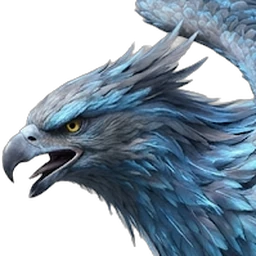
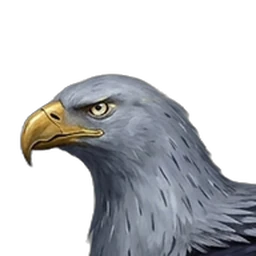
Storm Eagle: redesigned picture, roar picture, animated from its own videos with its own voice
Tall indigo-black eagle with a rain-streaked storm-grey head, silver wing bands and a neck ruff,
standing with its wings folded (Nano Banana 2.1; a gold streak behind its eye painted out).
Both videos clean.

Claude-Session: https://claude.ai/code/session_018PQaDJLhfzPHgGb82XHzjM

diff --git a/tests/test_web_explore.py b/tests/test_web_explore.py
@@ -1333,6 +1333,20 @@ def test_the_bone_vulture_is_animated_from_its_own_videos_with_its_own_voice():
     assert json.load(open(os.path.join("art", "beasts", "heads.json")))["bone_vulture@roar"][:2] == [0.08, 0.38]
     assert explore_play.beast_body("Bone Vulture") == "bone_vulture"
 
+def test_the_storm_eagle_is_animated_from_its_own_videos_with_its_own_voice():
+    """SHOAIB's redesigned Storm Eagle (Nov 27, Grandmaster Elite): a tall indigo-black eagle with a storm-grey head, standing with its wings folded; both videos clean."""
+    import json
+    from web import beast_sheets, death, explore_play
+    d = beast_sheets.sheets("storm_eagle")
+    assert d and set(d["sheets"]) == {"idle", "attack", "hit", "death"} and d["sheets"]["idle"]["smooth"]
+    assert death.view({"kind": "beast", "name": "Storm Eagle", "slug": "storm_eagle"})["kind"] == "sheet"
+    assert os.path.exists(os.path.join("art", "beasts", "roar", "storm_eagle.png"))
+    keys = json.load(open(os.path.join("art", "fx", "sounds", "sounds.json")))
+    for sound in ("hit", "lunge", "death", "roar", "roar:big"):
+        assert f"{sound}@storm_eagle" in keys
+    assert json.load(open(os.path.join("art", "beasts", "heads.json")))["storm_eagle@roar"][:2] == [0.07, 0.19]
+    assert explore_play.beast_body("Storm Eagle") == "storm_eagle"
+
 def test_a_move_ending_in_another_pose_slides_and_dissolves_back_into_the_idle():
     """`make_beast_sheets.settle`: the last frames slide until the nose meets the idle's, then dissolve into it."""
     from PIL import Image

diff --git a/scripts/make_beast_sheets.py b/scripts/make_beast_sheets.py
@@ -142,6 +142,12 @@ CLIPS = {
                              "attack_ms": 3000,
                              "ease_in": {"attack": 2, "hit": 3, "death": 4}, "settle": {"attack": 3},
                              "ease_out": {"hit": 3}, "place_as": {"attack": "idle", "hit": "idle", "death": "idle"}},
+    # Nov 27 redesign, standing with its wings folded: both videos clean (no remakes): its idle before its beak stab,
+    # its flinch and its fall onto its belly from the hit video, easing in from the idle
+    "storm_eagle": {"attack": (3.95, 6.9), "hit": (2.1, 3.2), "death": (4.95, 7.25), "idle_span": (16, 28),
+                    "breathe": 0.035, "idle_from": 2.8, "idle_until": 4.0, "attack_ms": 2600,
+                    "ease_in": {"attack": 2, "hit": 3, "death": 4}, "settle": {"attack": 3},
+                    "ease_out": {"hit": 3}, "place_as": {"attack": "idle", "hit": "idle", "death": "idle"}},
     # Nov 27 redesign, standing hunched with its wings folded: both videos clean (no remakes); its pale head is its own,
     # so nothing is wiped. Its idle before its neck-stretching stab, its flinch (taken on until it stands calm again)
     # and its slump (from the calm moment its neck matches the idle's) from the hit video

diff --git a/scripts/make_roar_fx.py b/scripts/make_roar_fx.py
@@ -84,7 +84,7 @@ MOUTHS = {
     "spear_beak_crane": (0.1, 0.12),
     "steel_horn_bull": (0.1, 0.5),
     "stone_shell_tortoise": (0.02, 0.47),
-    "storm_eagle": (0.04, 0.37),
+    "storm_eagle": (0.03, 0.13),
     "stray_dog_pack": (0.05, 0.36),
     "taotie_the_devourer": (0.3, 0.2),
     "the_master": (0.45, 0.2),
@@ -155,7 +155,7 @@ ROAR_MOUTHS = {
     "spear_beak_crane": (0.1, 0.41),
     "steel_horn_bull": (0.12, 0.5),
     "stone_shell_tortoise": (0.06, 0.47),
-    "storm_eagle": (0.08, 0.33),
+    "storm_eagle": (0.07, 0.19),
     "stray_dog_pack": (0.06, 0.36),
     "thornback_lizard": (0.05, 0.4),
     "thousand_year_centipede": (0.09, 0.3),

diff --git a/art/beasts/README.md b/art/beasts/README.md
@@ -60,5 +60,5 @@ dark-green scorpion with its tail curled over its back; its videos kept the pict
 sparkle, so both are dropped, and its strike is taken without the green slash arc the video drew. The **Poison Toad** (Martial Expert) is a huge warty
 olive toad with bright toxic-green spots, its jolt's white impact lines wiped from its video. The **Silver Monkey** (Martial Expert) is an agile
 silver-furred monkey with a short curled tail; its attack video was remade (the first leapt off and turned round), and
-the tail Veo grew long in its hit and death video is cut back to a short stub. The **Steel-Horn Bull** (Elite) is a huge dark-brown bull with thick steel horns and an iron nose ring, drawn facing left (no longer mirrored; Nano Banana 2.1); both its videos were clean. The **Golden-Eyed Ape King**, the Martial Expert Beast King, is a colossal charcoal-and-rust great ape with a gold zigzag streak down its back and no tail; its picture was mirrored to face left before its videos (Nano Banana 2.1), and the few frames with dust at its fist slam are dropped. The **Ironbark Bear** (Martial Master) is a tawny bear armoured in red-brown ironwood bark with moss and jade-green stones, drawn facing left (no longer mirrored; Nano Banana 2.1); its swipe video was made from the uncleaned picture, so the sparkle Veo kept on its rump is cut away. The **Frost Wolf** (Martial Master) is a stocky pale silver-blue tundra wolf with a huge icy-tipped mane, a blue diamond on its brow and a short tucked tail (Nano Banana 2.1); it is pale, so its video effects are left out by choosing frames, never wiped: its bite stops just before the ice shards the video drew. The **Thunder Hawk** (Elite) is a bulky slate blue-grey hawk with a gold-tipped crest and gold zigzag stripes on its wings; it now stands and fights on its feet with its wings folded (no longer diving; no stone underfoot; Nano Banana 2.1). Its first attack and hit spread its wings off the video, so they come from one remade video; its fall from the first. The **Ember Lizard** (Martial Master) is a lean, long-legged runner, glossy black with coal-orange bands and a flame-orange neck frill (Nano Banana 2.1; the small flame wisp Gemini drew over its head painted out). Veo grew its short tail long in every video, so each move is taken before the tail grows. The **Frost Python** (Elite) is a navy-blue python with ice-white diamonds and a frosted spine ridge, coiled low (Nano Banana 2.1; Gemini's sparkle painted onto its coil was un-blended before its videos); both its videos were clean. The **Wind Leopard** (Elite) is a slim, long-legged sand-gold leopard with swirl-shaped spots and black-tufted ears, drawn facing left (no longer mirrored; Nano Banana 2.1); Veo grew its short tail long whenever it moved, so the tail is cut back where it reaches past its back feet. The **Flame-Maned Lion**, the Martial Master Beast King, is a golden lion with a huge crimson-to-gold mane (just colour, not fire) and no tail showing, drawn facing left (no longer mirrored; Nano Banana 2.1; its long thin tail and the "AI" badge painted out of its picture); the tufted tail Veo grew is cut back in every move. The **Stone-Shell Tortoise** (Grandmaster) is an ox-sized tortoise with a slate stone shell, ochre seams, moss and three stone knobs (Nano Banana 2.1); both its videos were clean. The **Bone Vulture** (Grandmaster) is a hunched charcoal-purple vulture with a bare bone-white head, an ivory beak and bone-white wing edges, standing with its wings folded (Nano Banana 2.1); both its videos were clean, and its pale head is its own, so nothing is wiped. The beasts are
+the tail Veo grew long in its hit and death video is cut back to a short stub. The **Steel-Horn Bull** (Elite) is a huge dark-brown bull with thick steel horns and an iron nose ring, drawn facing left (no longer mirrored; Nano Banana 2.1); both its videos were clean. The **Golden-Eyed Ape King**, the Martial Expert Beast King, is a colossal charcoal-and-rust great ape with a gold zigzag streak down its back and no tail; its picture was mirrored to face left before its videos (Nano Banana 2.1), and the few frames with dust at its fist slam are dropped. The **Ironbark Bear** (Martial Master) is a tawny bear armoured in red-brown ironwood bark with moss and jade-green stones, drawn facing left (no longer mirrored; Nano Banana 2.1); its swipe video was made from the uncleaned picture, so the sparkle Veo kept on its rump is cut away. The **Frost Wolf** (Martial Master) is a stocky pale silver-blue tundra wolf with a huge icy-tipped mane, a blue diamond on its brow and a short tucked tail (Nano Banana 2.1); it is pale, so its video effects are left out by choosing frames, never wiped: its bite stops just before the ice shards the video drew. The **Thunder Hawk** (Elite) is a bulky slate blue-grey hawk with a gold-tipped crest and gold zigzag stripes on its wings; it now stands and fights on its feet with its wings folded (no longer diving; no stone underfoot; Nano Banana 2.1). Its first attack and hit spread its wings off the video, so they come from one remade video; its fall from the first. The **Ember Lizard** (Martial Master) is a lean, long-legged runner, glossy black with coal-orange bands and a flame-orange neck frill (Nano Banana 2.1; the small flame wisp Gemini drew over its head painted out). Veo grew its short tail long in every video, so each move is taken before the tail grows. The **Frost Python** (Elite) is a navy-blue python with ice-white diamonds and a frosted spine ridge, coiled low (Nano Banana 2.1; Gemini's sparkle painted onto its coil was un-blended before its videos); both its videos were clean. The **Wind Leopard** (Elite) is a slim, long-legged sand-gold leopard with swirl-shaped spots and black-tufted ears, drawn facing left (no longer mirrored; Nano Banana 2.1); Veo grew its short tail long whenever it moved, so the tail is cut back where it reaches past its back feet. The **Flame-Maned Lion**, the Martial Master Beast King, is a golden lion with a huge crimson-to-gold mane (just colour, not fire) and no tail showing, drawn facing left (no longer mirrored; Nano Banana 2.1; its long thin tail and the "AI" badge painted out of its picture); the tufted tail Veo grew is cut back in every move. The **Stone-Shell Tortoise** (Grandmaster) is an ox-sized tortoise with a slate stone shell, ochre seams, moss and three stone knobs (Nano Banana 2.1); both its videos were clean. The **Bone Vulture** (Grandmaster) is a hunched charcoal-purple vulture with a bare bone-white head, an ivory beak and bone-white wing edges, standing with its wings folded (Nano Banana 2.1); both its videos were clean, and its pale head is its own, so nothing is wiped. The **Storm Eagle** (Elite) is a tall indigo-black eagle with a rain-streaked storm-grey head, silver wing bands and a ruff of pointed neck feathers, standing with its wings folded (Nano Banana 2.1; a gold streak behind its eye painted out); both its videos were clean. The beasts are
 being redone one at a time in roster order the same way.

diff --git a/art/beasts/PROMPTS.md b/art/beasts/PROMPTS.md
@@ -221,9 +221,9 @@ File: `art/beasts/bone_vulture.png` (Nov 27 redesign, Nano Banana 2.1, standing 
 > A Bone Vulture for a Chinese xianxia martial arts game: a big, gaunt, hunched vulture, taller than a person's knee, with dark charcoal-purple feathers on its body and wings, a thick ruff of shaggy black feathers around the base of its neck, and a bare head and neck of smooth ivory bone-white skin (healthy skin, just pale in colour). Its signature: a heavy, thick, hooked beak coloured like old ivory bone, solid and part of its head, and the edges of its folded wing feathers coloured pale bone-white in neat stripes (just colour on the feathers). Thick grey scaly legs, big dark talons, and deep-set eyes with a faint violet glow of shadow Qi (only the eyes glow). A SHORT, thick tail held low, close to the body. All of its feathers are solid: nothing coming off it, no smoke, no mist, no loose feathers. Grim and patient, a natural bird, not a monster or a skeleton. Strict side view, facing LEFT, STANDING on the ground on both legs (not flying), wings FOLDED neatly against its body, shoulders hunched, neck stretched forward and head pointing left, beak closed, both legs clearly visible and separated. The whole vulture takes up about 60-65% of the picture's height, placed a little right of centre, with clear empty grey space above it (about a quarter of the picture's height) and on the left, and its feet a little above the bottom edge. Realistic digital painting, premium Chinese xianxia MMORPG creature concept art, detailed feathers, beak and talons, soft natural rim lighting, painterly brushwork, rich but mature colours. Plain flat even medium-grey background, the same grey from top to bottom, no gradient, no vignette, no light outline around the body, no ground, no shadow, no aura, no text, no watermark. 16:9.
 
 **Storm Eagle** · Elite · Thunder
-File: `art/beasts/storm_eagle.png`
+File: `art/beasts/storm_eagle.png` (Nov 27 redesign, Nano Banana 2.1, standing with its wings folded (a gold streak behind its eye painted out); animated from its idle + attack and hit + death videos)
 
-> A huge eagle in a storm, wings spread wide, lightning crackling between its feathers, with a subtle electric gold elemental aura. It is an elite: larger and more battle-scarred than its kind. Digital painting, premium Chinese xianxia MMORPG creature concept art. Realistic anatomy, detailed feathers and talons, dramatic natural rim lighting, painterly brushwork, rich but mature colours. Full body, three-quarter view facing left, dynamic pose. Isolated on a plain transparent background, no ground, no text, no frame, no watermark.
+> A Storm Eagle for a Chinese xianxia martial arts game, an Elite beast: a huge, tall, upright eagle, far bigger than any real eagle, with a long powerful neck, broad shoulders and long legs. Deep indigo-black feathers on its body and folded wings, a pale storm-grey head and neck streaked with thin dark-grey lines like falling rain (just colour), and a wide pale silver-white band across the top of each folded wing like the bright edge of a storm cloud (just colour on the feathers). Its signature: a short, thick ruff of stiff pointed hackle feathers on the back of its neck, storm-grey with dark tips, lying flat and solid against its neck. A heavy, sharply hooked golden-yellow beak, legs feathered in indigo-black down to its big yellow feet with long black talons, and fierce pale-gold eyes with a faint electric-gold glow of thunder Qi (only the eyes glow). A SHORT, square tail held low, close to the body. All of its feathers are solid: nothing coming off it, no lightning, no sparks, no loose feathers. Proud and commanding, a natural bird, not a monster. Strict side view, facing LEFT, STANDING upright on the ground on both legs (not flying), wings FOLDED neatly against its body, chest out, neck raised and head held high and level, pointing left, beak closed, both legs clearly visible and separated. The whole eagle takes up about 60-65% of the picture's height, placed a little right of centre, with clear empty grey space above it (about a quarter of the picture's height) and on the left, and its feet a little above the bottom edge. Realistic digital painting, premium Chinese xianxia MMORPG creature concept art, detailed feathers, beak and talons, soft natural rim lighting, painterly brushwork, rich but mature colours. Plain flat even medium-grey background, the same grey from top to bottom, no gradient, no vignette, no light outline around the body, no ground, no shadow, no aura, no text, no watermark. 16:9.
 
 **Jade-Scaled Crocodile** · Elite · Jade
 File: `art/beasts/jade_scaled_crocodile.png`

diff --git a/docs/web.md b/docs/web.md
@@ -583,6 +583,7 @@ What is recorded now (23 names, 22 files, about 220 KB, all from SHOAIB's videos
 | The Flame-Maned Lion's roaring bite, its grunt when struck, its dying groan and fall, its roar and big roar (`@flame_maned_lion`) | its own idle + attack and hit + death videos (Nov 27) |
 | The Stone-Shell Tortoise's hissing snap, its hiss when struck, its slam onto its shell, its hiss and big hiss (`@stone_shell_tortoise`) | its own idle + attack and hit + death videos (Nov 27) |
 | The Bone Vulture's croaking stab, its screech when struck, its dying croak and slump, its croak and big croak (`@bone_vulture`) | its own idle + attack and hit + death videos (Nov 27) |
+| The Storm Eagle's screeching beak stab, its cry when struck, its dying cry and fall, its screech and big screech (`@storm_eagle`) | its own idle + attack and hit + death videos (Nov 27) |
 | A roar, and a big roar, for wolf-, cat- and ape-bodied beasts | the quadruped roar video |
 
 **His own sounds (Nov 24).** The new male's videos carry sound too, and his moves play it: his Strike's swing, his
@@ -1138,7 +1139,7 @@ its beasts in `DEATH_CATEGORY`. To give another four-legged beast the movement, 
 ## Animated beasts
 
 A beast can be animated from its videos (SHOAIB's, Gemini or Flow: idle, attack, hit, death; so far the **Grey Wolf**
-and the redesigned **Wild Boar**, **Field Viper**, **Stray Dog Pack**, **Wild Ox**, **Old Black Bear**, **Iron-Hide Boar**, **Red Fox**, the first bird, the **Wind-Feather Falcon**, the **Shadow Wolf**, the **Horned Stag**, the **Mountain Tiger**, the **Rock Python**, the **Spear-Beak Crane**, the **Thornback Lizard**, the **Bloodfang Wolf**, the **Armored Boar Chief**, the **White-Browed Tiger King**, the **Venom Scorpion**, the **Poison Toad**, the **Silver Monkey**, the **Steel-Horn Bull**, the **Golden-Eyed Ape King**, the **Ironbark Bear**, the **Frost Wolf**, the **Thunder Hawk**, the **Ember Lizard**, the **Frost Python**, the **Wind Leopard**, the **Flame-Maned Lion**, the **Stone-Shell Tortoise** and the **Bone Vulture**). One video can hold two of them: the Wild Boar's idle comes from one video, its hit
+and the redesigned **Wild Boar**, **Field Viper**, **Stray Dog Pack**, **Wild Ox**, **Old Black Bear**, **Iron-Hide Boar**, **Red Fox**, the first bird, the **Wind-Feather Falcon**, the **Shadow Wolf**, the **Horned Stag**, the **Mountain Tiger**, the **Rock Python**, the **Spear-Beak Crane**, the **Thornback Lizard**, the **Bloodfang Wolf**, the **Armored Boar Chief**, the **White-Browed Tiger King**, the **Venom Scorpion**, the **Poison Toad**, the **Silver Monkey**, the **Steel-Horn Bull**, the **Golden-Eyed Ape King**, the **Ironbark Bear**, the **Frost Wolf**, the **Thunder Hawk**, the **Ember Lizard**, the **Frost Python**, the **Wind Leopard**, the **Flame-Maned Lion**, the **Stone-Shell Tortoise**, the **Bone Vulture** and the **Storm Eagle**). One video can hold two of them: the Wild Boar's idle comes from one video, its hit
 and attack from a second, its death from a third (`CLIPS` gives the seconds of each).
 **The move panel never changes height** (fight.js `holdInfo`): it is held at the height of its tallest text (every
 move's and technique's, tried once when the page comes in, and again when the window changes size). Guard's and
@@ -1202,6 +1203,8 @@ short spans (`death`: ((start, end), ...)) that take every one of those frames i
 down over four frames instead of jumping. Its snap is taken on until its neck is fully back, so it settles cleanly.
 **The Bone Vulture** (Nov 27): its neck sits differently through its hit video, so its flinch runs on until it is
 calm again (3.95 s) and its slump starts at the calm moment its neck matches the idle's (4.15 s), not a double head.
+**The Storm Eagle** (Nov 27): both videos clean; its idle before its beak stab, its flinch and its fall onto its
+belly ease in from it.
 **The idle never jumps** (`smooth_idle`; SHOAIB: "it keeps resetting"): its last frame never quite met its first, so
 a short idle plays forward then back, breathing in and out, and a long one (24+ frames) dissolves its last 6 frames
 into its first; and it keeps its place in time when the page is replaced each turn (fight.js sets its
